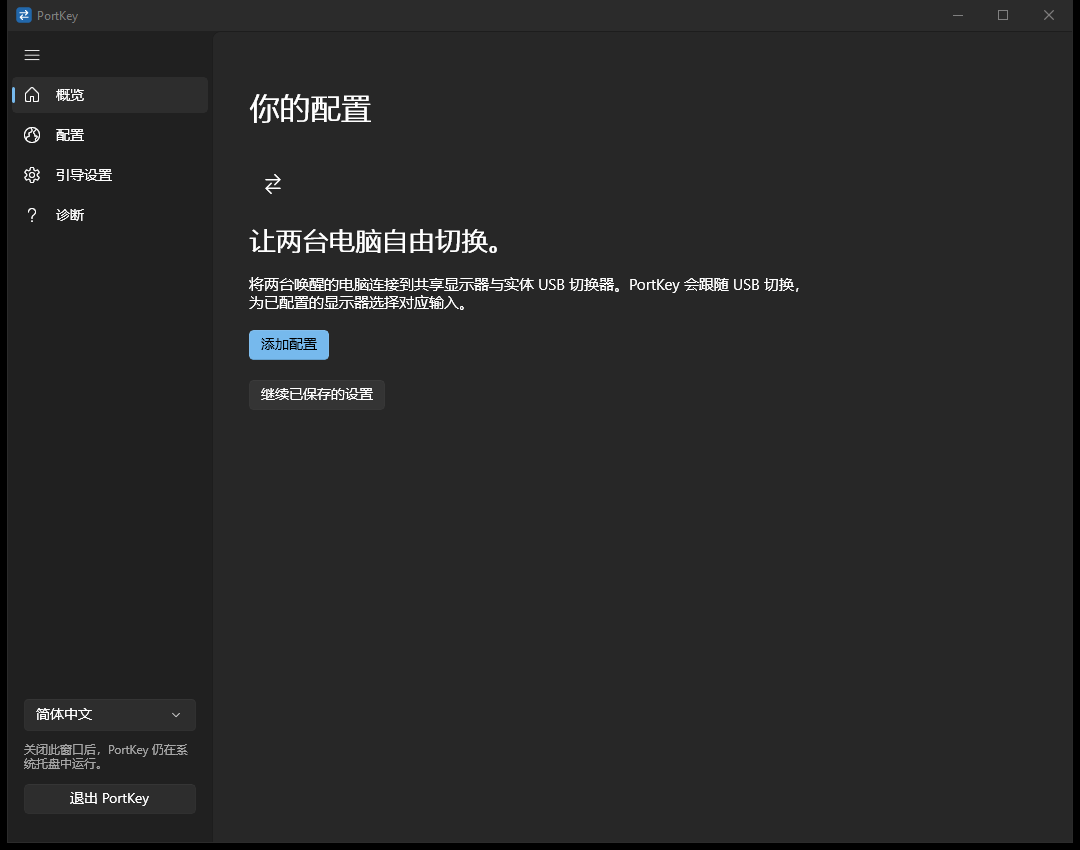
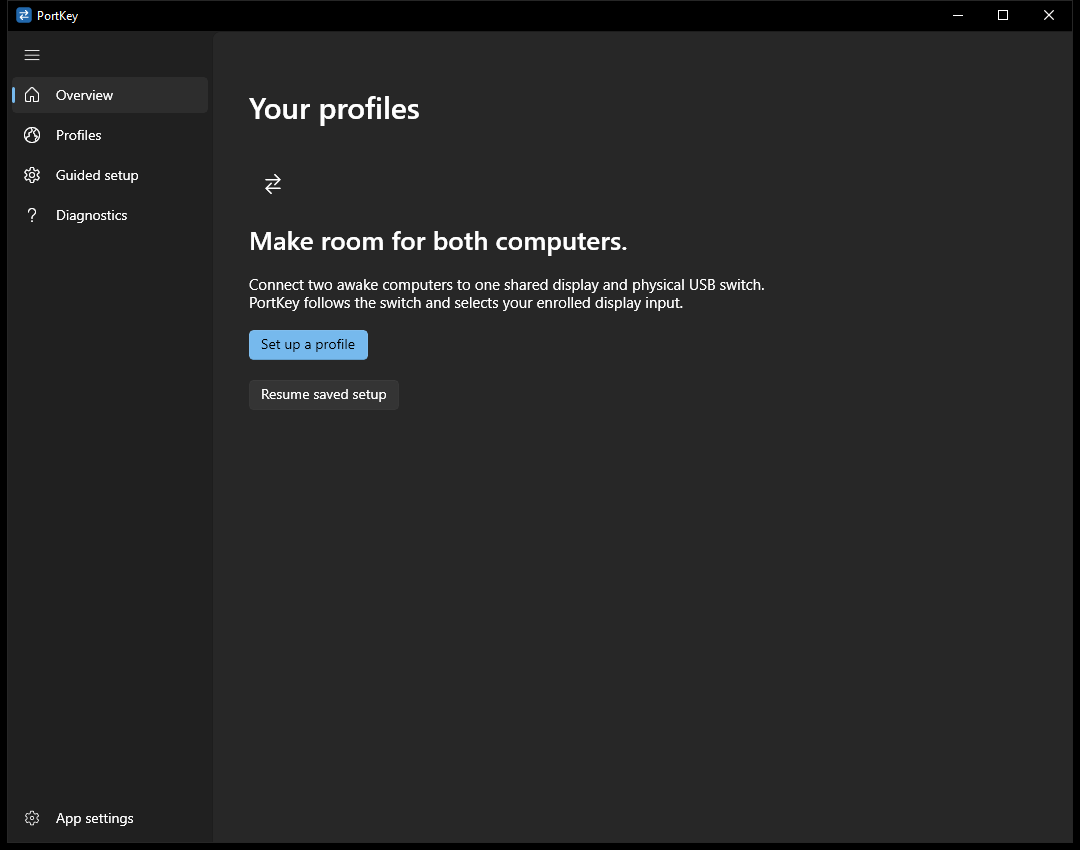
fix: move Windows language controls into app settings

diff --git a/native/windows/MainWindow.xaml b/native/windows/MainWindow.xaml
@@ -1,20 +1,10 @@
-<NavigationView xmlns="http://schemas.microsoft.com/winfx/2006/xaml/presentation" xmlns:x="http://schemas.microsoft.com/winfx/2006/xaml" x:Name="Navigation" PaneDisplayMode="Auto" OpenPaneLength="204" IsBackButtonVisible="Collapsed" IsSettingsVisible="False" IsPaneToggleButtonVisible="True">
+<NavigationView xmlns="http://schemas.microsoft.com/winfx/2006/xaml/presentation" xmlns:x="http://schemas.microsoft.com/winfx/2006/xaml" x:Name="Navigation" PaneDisplayMode="Auto" OpenPaneLength="204" IsBackButtonVisible="Collapsed" IsSettingsVisible="True" IsPaneToggleButtonVisible="True">
   <NavigationView.MenuItems>
     <NavigationViewItem x:Name="NavOverview" Icon="Home" />
     <NavigationViewItem x:Name="NavProfiles" Icon="World" />
     <NavigationViewItem x:Name="NavSetup" Icon="Setting" />
     <NavigationViewItem x:Name="NavDiagnostics" Icon="Help" />
   </NavigationView.MenuItems>
-  <NavigationView.PaneFooter>
-    <StackPanel Spacing="12" Margin="16,12,16,20">
-      <ComboBox x:Name="Language" HorizontalAlignment="Stretch">
-        <x:String>English</x:String>
-        <x:String>简体中文</x:String>
-      </ComboBox>
-      <TextBlock x:Name="TrayHint" TextWrapping="Wrap" FontSize="12" Opacity="0.6" />
-      <Button x:Name="Quit" HorizontalAlignment="Stretch" />
-    </StackPanel>
-  </NavigationView.PaneFooter>
   <Grid Padding="36,28">
     <Grid.RowDefinitions>
       <RowDefinition Height="Auto" />
@@ -190,6 +180,16 @@
             <Button x:Name="FinishLater" />
             <Button x:Name="CancelDraft" />
           </StackPanel>
+        </StackPanel>
+        <StackPanel x:Name="SettingsPage" Visibility="Collapsed" Spacing="18">
+          <TextBlock x:Name="SettingsTitle" FontSize="30" FontWeight="SemiBold" />
+          <TextBlock x:Name="LanguageHeading" FontSize="18" FontWeight="SemiBold" />
+          <ComboBox x:Name="Language" MinWidth="220" HorizontalAlignment="Left">
+            <x:String>English</x:String>
+            <x:String>简体中文</x:String>
+          </ComboBox>
+          <TextBlock x:Name="TrayHint" TextWrapping="Wrap" Opacity="0.7" />
+          <Button x:Name="Quit" />
         </StackPanel>
         <StackPanel x:Name="DiagnosticsPage" Visibility="Collapsed" Spacing="18">
           <TextBlock x:Name="DiagnosticsTitle" FontSize="30" FontWeight="SemiBold" />

diff --git a/native/windows/ControllerView.cpp b/native/windows/ControllerView.cpp
@@ -354,13 +354,16 @@ void ControllerView::trayMenu() {
 }
 void ControllerView::page(wchar_t const *name) {
     auto navigation = control<NavigationView>(L"Navigation");
-    auto item = root.FindName(wcscmp(name, L"ProfilesPage") == 0      ? L"NavProfiles"
-                              : wcscmp(name, L"SetupPage") == 0       ? L"NavSetup"
-                              : wcscmp(name, L"DiagnosticsPage") == 0 ? L"NavDiagnostics"
-                                                                      : L"NavOverview");
+    auto item = wcscmp(name, L"SettingsPage") == 0
+                    ? navigation.SettingsItem()
+                    : root.FindName(wcscmp(name, L"ProfilesPage") == 0      ? L"NavProfiles"
+                                    : wcscmp(name, L"SetupPage") == 0       ? L"NavSetup"
+                                    : wcscmp(name, L"DiagnosticsPage") == 0 ? L"NavDiagnostics"
+                                                                            : L"NavOverview");
     if (navigation.SelectedItem() != item)
         navigation.SelectedItem(item);
-    for (auto candidate : {L"OverviewPage", L"ProfilesPage", L"SetupPage", L"DiagnosticsPage"})
+    for (auto candidate :
+         {L"OverviewPage", L"ProfilesPage", L"SetupPage", L"DiagnosticsPage", L"SettingsPage"})
         control<StackPanel>(candidate).Visibility(
             wcscmp(candidate, name) == 0 ? Visibility::Visible : Visibility::Collapsed);
 }
@@ -371,6 +374,10 @@ void ControllerView::bind() {
     control<NavigationView>(L"Navigation")
         .SelectionChanged(
             [this](auto const &, NavigationViewSelectionChangedEventArgs const &args) {
+                if (args.IsSettingsSelected()) {
+                    page(L"SettingsPage");
+                    return;
+                }
                 if (auto item = args.SelectedItem().try_as<NavigationViewItem>()) {
                     auto name = item.Name();
                     page(name == L"NavProfiles"      ? L"ProfilesPage"
@@ -945,6 +952,9 @@ void ControllerView::qualify() {
         setupStep = 5;
 }
 void ControllerView::translate() {
+    if (auto item =
+            control<NavigationView>(L"Navigation").SettingsItem().try_as<NavigationViewItem>())
+        item.Content(box_value(zh ? L"应用设置" : L"App settings"));
     struct Phrase {
         wchar_t const *name;
         wchar_t const *en;
@@ -978,6 +988,8 @@ void ControllerView::translate() {
          {L"NavProfiles", L"Profiles", L"配置"},
          {L"NavSetup", L"Guided setup", L"引导设置"},
          {L"NavDiagnostics", L"Diagnostics", L"诊断"},
+         {L"SettingsTitle", L"App settings", L"应用设置"},
+         {L"LanguageHeading", L"Language", L"语言"},
          {L"TrayHint", L"Closing this window keeps PortKey running in the tray.",
           L"关闭此窗口后，PortKey 仍在系统托盘中运行。"},
          {L"Quit", L"Quit PortKey", L"退出 PortKey"},
@@ -1238,8 +1250,10 @@ void ControllerView::renderProfileSelection() {
     text(L"ProfilesActive", active);
     text(L"SelectionReason", str(selection, L"message"));
     text(L"ProfilesSelectionReason", str(selection, L"message"));
-    control<ComboBox>(L"ProfilesList").Visibility(profiles.empty()?Visibility::Collapsed:Visibility::Visible);
-    control<TextBlock>(L"ViewingLabel").Visibility(profiles.empty()?Visibility::Collapsed:Visibility::Visible);
+    control<ComboBox>(L"ProfilesList")
+        .Visibility(profiles.empty() ? Visibility::Collapsed : Visibility::Visible);
+    control<TextBlock>(L"ViewingLabel")
+        .Visibility(profiles.empty() ? Visibility::Collapsed : Visibility::Visible);
     control<StackPanel>(L"ProfileSelectionSummary")
         .Visibility(!startupBlocked && !profiles.empty() ? Visibility::Visible
                                                          : Visibility::Collapsed);
@@ -1555,15 +1569,28 @@ void ControllerView::tick() {
             control<TextBox>(L"WorkspaceName").Text(L"QA workspace");
             control<TextBox>(L"DraftLocalName").Text(L"QA local unsaved");
             control<TextBox>(L"DraftRemoteName").Text(L"QA peer unsaved");
-            auto value = command(L"language");
-            put(value, L"value", hstring(L"zh-Hans"));
-            send(value);
+            auto navigation = control<NavigationView>(L"Navigation");
+            navigation.IsPaneOpen(false);
+            navigation.SelectedItem(navigation.SettingsItem());
+            control<ComboBox>(L"Language").SelectedIndex(1);
         }
+        if (ticks == 4)
+            captureWindow(L"native-settings-collapsed.png");
         if (ticks == 5) {
             smokeDraftPreserved =
                 control<TextBox>(L"DraftLocalName").Text() == L"QA local unsaved" &&
                 control<TextBox>(L"DraftRemoteName").Text() == L"QA peer unsaved";
             smokeChinese = control<TextBlock>(L"OverviewTitle").Text() == L"你的配置";
+            auto navigation = control<NavigationView>(L"Navigation");
+            smokeSettings =
+                !navigation.IsPaneOpen() && !navigation.PaneFooter() &&
+                navigation.IsSettingsVisible() &&
+                navigation.SelectedItem() == navigation.SettingsItem() &&
+                control<StackPanel>(L"SettingsPage").Visibility() == Visibility::Visible &&
+                control<StackPanel>(L"SetupPage").Visibility() == Visibility::Collapsed &&
+                control<ComboBox>(L"Language").Parent() == root.FindName(L"SettingsPage") &&
+                control<Button>(L"Quit").Parent() == root.FindName(L"SettingsPage") &&
+                control<TextBlock>(L"SettingsTitle").Text() == L"应用设置";
             captureWindow();
         }
         if (ticks == 6) {
@@ -1596,6 +1623,12 @@ void ControllerView::tick() {
             put(value, L"value", hstring(L"en"));
             send(value);
         }
+        if (ticks == 8) {
+            page(L"OverviewPage");
+            control<NavigationView>(L"Navigation").IsPaneOpen(true);
+        }
+        if (ticks == 9)
+            captureWindow(L"native-overview-expanded.png");
         if (ticks == 21) {
             auto diagnosticsResult = send(command(L"diagnostics_preview"));
             auto package = obj(diagnosticsResult, L"diagnostics");
@@ -1913,6 +1946,7 @@ void ControllerView::smokeRecord() {
         put(record, L"shared_diagnostics_preview", smokeDiagnostics);
         put(record, L"qualified_finish_orchestration", smokeFinishFlow);
         put(record, L"independent_profile_actions", smokeProfiles);
+        put(record, L"collapsed_sidebar_settings", smokeSettings);
     }
     put(record, L"tray_registered", trayReady);
     put(record, L"tray_icon_loaded", tray.hIcon != nullptr);

diff --git a/native/windows/ControllerView.h b/native/windows/ControllerView.h
@@ -60,7 +60,7 @@ struct ControllerView {
     void renderProfileSelection();
     void updateProfiles(winrt::Windows::Data::Json::JsonObject const &previous);
     void profileOrchestrationTests();
-    bool smokeProfiles{}, profilePromptOpen{};
+    bool smokeProfiles{}, smokeSettings{}, profilePromptOpen{};
     winrt::hstring editorProfileId;
     void qualify();
     void beginSetup();

diff --git a/docs/plans/1.0-rc-release.md b/docs/plans/1.0-rc-release.md
@@ -2,10 +2,12 @@
 
 Goal: prepare local reviewable commits, a short README with real native screenshots, native CI and draft-only v1.0.0-rc.1 release packaging. Public publication waits for user review.
 
-- [ ] Audit the complete working tree, retain repaired controller behavior, exclude private captures/configuration and generated output, and commit the native product changes.
-- [ ] Keep the existing diagrams; shorten README and add one actual screenshot per platform. Do not create a manual or represent mockups as screenshots.
-- [ ] Validate native CI and versioned packages on macOS arm64 and Windows x64. No physical switching tests or live configuration edits.
-- [ ] Add a draft prerelease workflow with checksums, version validation and least-privilege permissions. No tag push/public release in this preparation step.
-- [ ] Run final checks, inspect the staged files and record local commits plus release limitations for user review.
+- [x] Audit the complete working tree, retain repaired controller behavior, exclude private captures/configuration and generated output, and commit the native product changes.
+- [x] Keep the existing diagrams; shorten README and add one actual screenshot per platform. Do not create a manual or represent mockups as screenshots.
+- [x] Validate native CI and versioned packages on macOS arm64 and Windows x64. No physical switching tests or live configuration edits.
+- [x] Add a draft prerelease workflow with checksums, version validation and least-privilege permissions. No tag push/public release in this preparation step.
+- [x] Run final checks, inspect the staged files and record local commits plus release limitations for user review.
 
 Review focus: clean-checkout build prerequisites, version consistency, unsigned distribution disclosure, privacy of screenshots and artifacts, draft-only publication.
+
+Verification: local Mac Rust/native suites, actual Windows Rust/native build, package checks and isolated UI checks passed. Hosted initial native CI passed on both platforms; the final Windows settings refinement is checked again before release review. No tag or Release published.

diff --git a/docs/releases/v1.0.0-rc.1.md b/docs/releases/v1.0.0-rc.1.md
@@ -7,7 +7,7 @@ Not published. This is the release text and review checklist for the first nativ
 - Native SwiftUI/AppKit macOS and C++/WinRT WinUI 3 Windows interfaces over the shared Rust controller.
 - Guided two-computer setup, resumable drafts, English/Chinese, and local diagnostics.
 - Automatic Home/Work profile recognition, remembered wiring choices and manual profile selection.
-- Mac menu-bar control with a Dock icon while the window is open; Windows tray control.
+- Mac menu-bar control with a Dock icon while the window is open; Windows tray control and a compact sidebar with language preferences in App settings.
 - Native USB notifications, bounded DDC helpers, and controller race/recovery fixes.
 - Retired the historical Swift controller, preserving configuration migration and third-party attribution.
 
